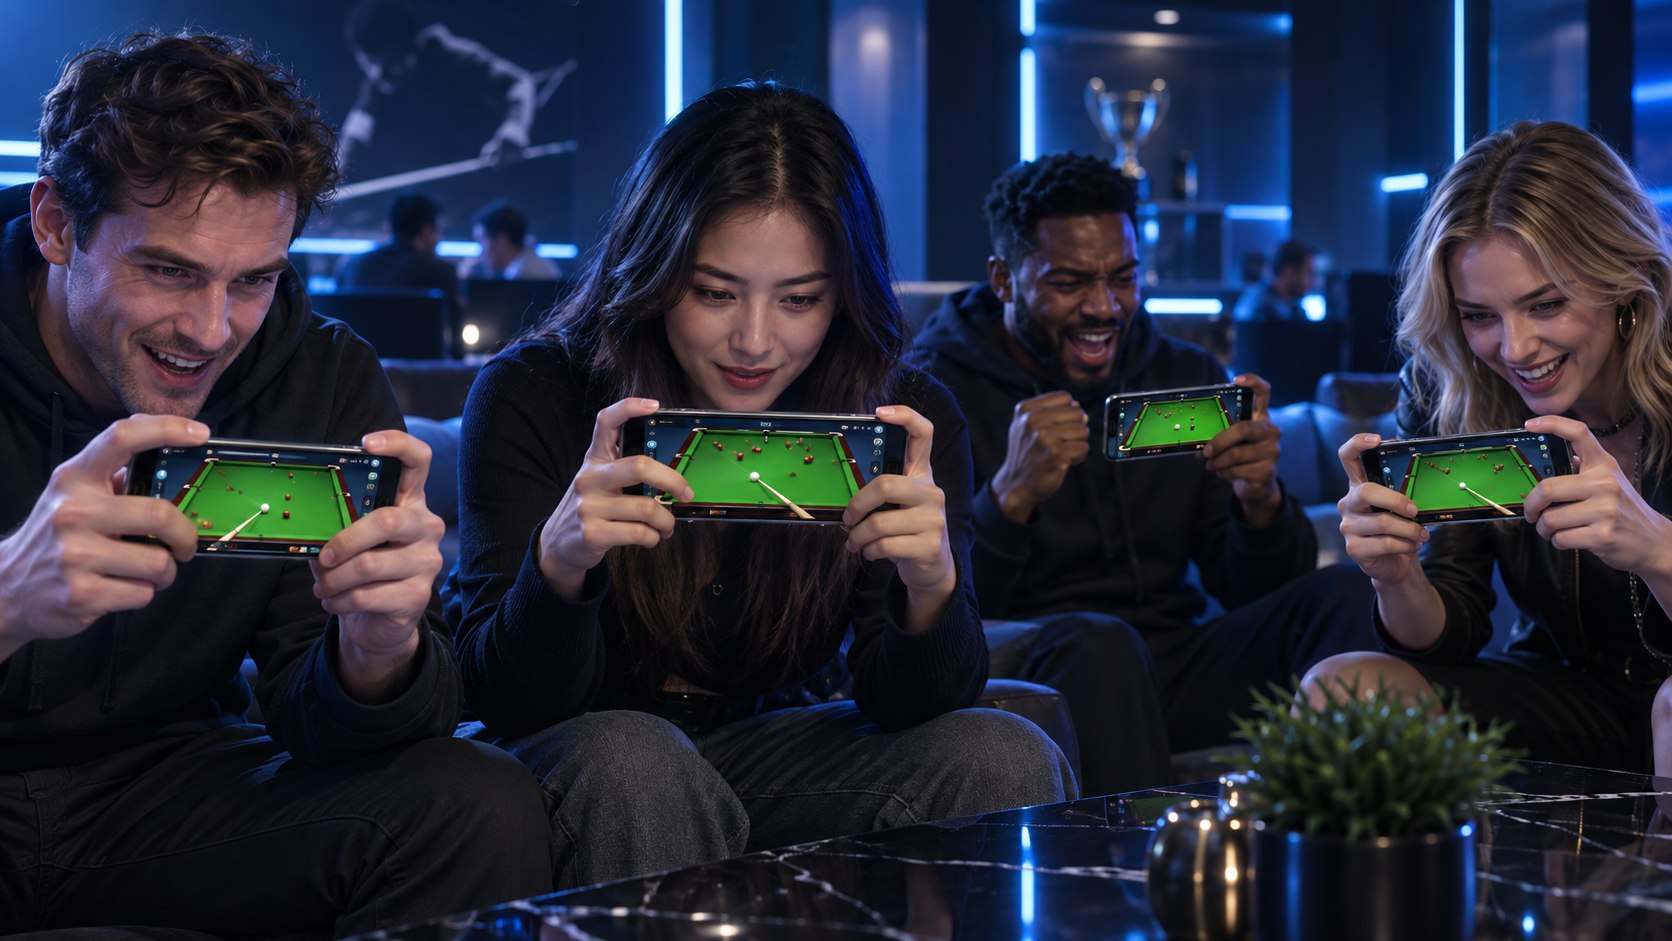
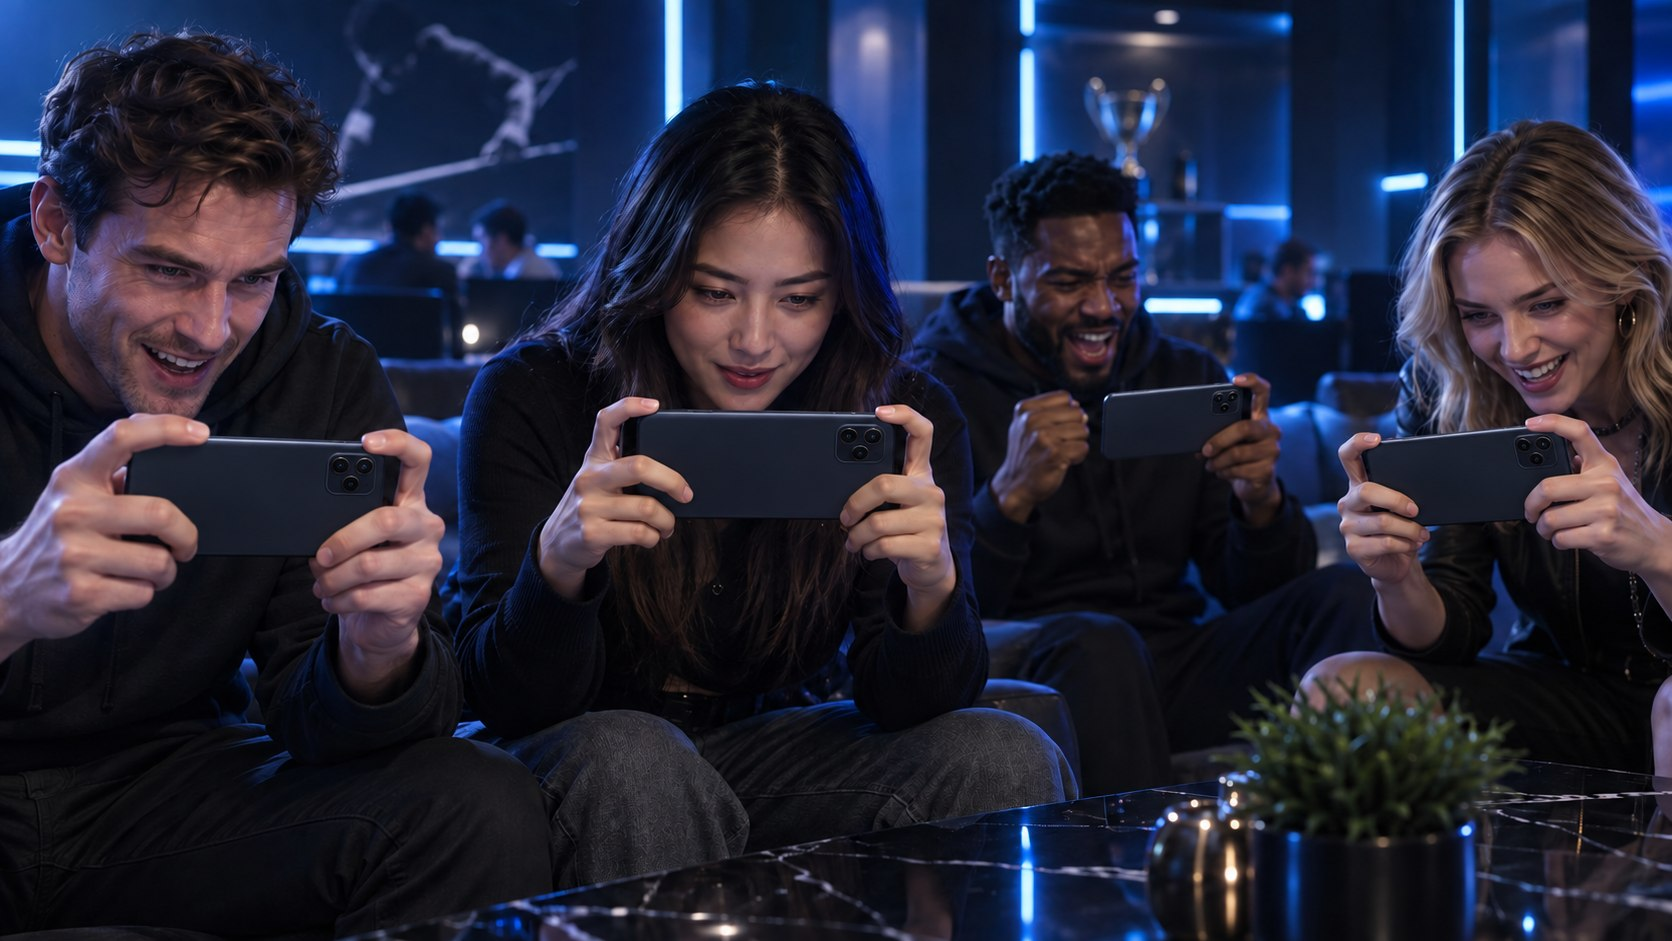
Correct CueStrike phone perspective

diff --git a/index.html b/index.html
@@ -42,7 +42,7 @@
         <div class="storyCarousel" id="storyCarousel" aria-roledescription="carousel" aria-label="The CueCoin and CueStrike vision">
           <div class="slides" aria-live="off">
             <article class="storySlide active" aria-hidden="false">
-              <img src="./assets/slides/cuestrikeMobile.jpg" alt="Adult players holding phones with CueStrike snooker gameplay visible on every screen" fetchpriority="high" />
+              <img src="./assets/slides/cuestrikeMobile.jpg" alt="Adult players competing in CueStrike while holding their phones in landscape orientation" fetchpriority="high" />
             </article>
             <article class="storySlide" aria-hidden="true">
               <img src="./assets/slides/precision.jpg" alt="A focused snooker player lining up a precise tournament shot" loading="lazy" />
@@ -275,7 +275,7 @@
       </section>
 
       <section class="section shell gamePreview" id="games">
-        <img class="gameBackdrop" src="./assets/slides/cuestrikeMobile.jpg" alt="CueStrike players holding phones with the snooker game displayed on the front screens" loading="lazy" />
+        <img class="gameBackdrop" src="./assets/slides/cuestrikeMobile.jpg" alt="CueStrike players focused on a competitive mobile match" loading="lazy" />
         <div class="gameShade"></div>
         <div class="previewCopy">
           <span class="eyebrow"><span></span> The first crown jewel</span>
